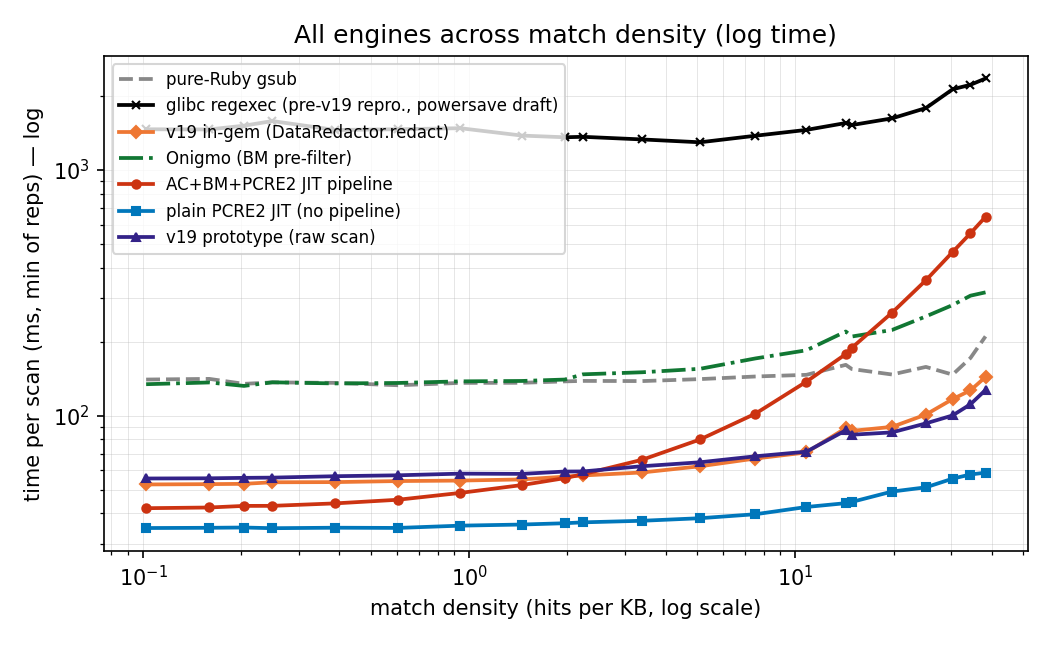
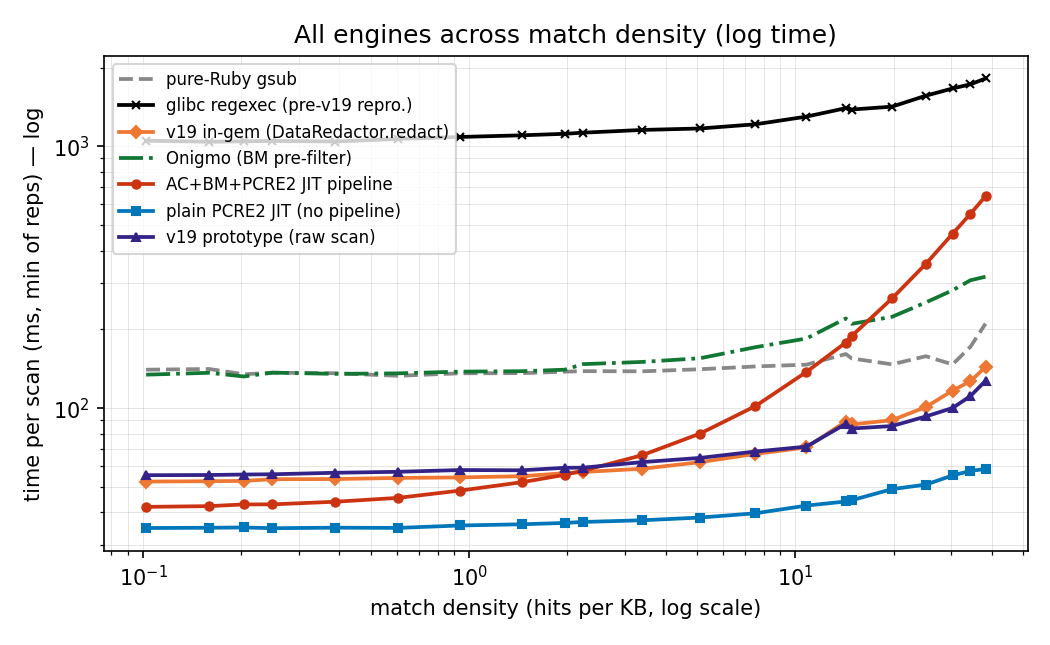
paper: re-run glibc baseline at performance clock; one operating point
Re-measured the slow glibc-regexec baseline at a verified performance
governor (16 cores, ~4.6-4.7 GHz), reps=10, to match the operating point
of the fast engines. Replaces the spliced powersave-draft baseline so the
density table/figures are a single consistent comparison.

- bench_density_sweep.rb: add --only <engines> to run a subset.
- plot_density_sweep.py: default --baseline-csv to density_sweep_glibc_perf.csv;
  drop the "two operating points" framing; relabel the glibc series.
- Regenerated density_table.tex, density_overview, density_crossover.
- environment.md: record both runs at performance; remove the misleading
  "amd-pstate did not honor the switch" note.
- density_sweep_draft.csv retained in-repo for provenance.

The re-run confirmed the baseline was understated ~1.1-1.5x under powersave
but changed no conclusion: glibc stays ~an order of magnitude above every
shippable engine; ordering and crossover identical under both clocks.

diff --git a/paper/plot_density_sweep.py b/paper/plot_density_sweep.py
@@ -10,19 +10,16 @@ Produces, from one (or two) CSV(s):
 Headline metric is ms_min (least scheduler/GC noise; see environment.md). The
 figure also shows the median band so the spread is visible.
 
-TWO OPERATING POINTS. The fast engines come from the CLEAN run (--csv: machine
-idle, reps=10). The glibc-regexec baseline is the slow incumbent reproduction;
-re-running it at the densest strides is prohibitively long (research_log §8.5,
-environment.md), so we reuse the DRAFT run for it (--baseline-csv: shared laptop,
-powersave, reps=5). This is honest and even useful: the baseline is so far behind
-that the *shape* — incumbent buried far above every shippable engine — is the same
-under powersave, and "still slow even when the fast engines had MORE resources"
-only strengthens the gap. The two-operating-point provenance is disclosed in
-environment.md and the figure caption.
+ONE OPERATING POINT. Both the fast engines (--csv: CLEAN run, machine idle,
+reps=10) and the glibc-regexec baseline (--baseline-csv: density_sweep_glibc_perf.csv,
+reps=10) were measured at the performance operating point (cores boosting to
+~4.7 GHz under load on this amd-pstate system; see environment.md). The earlier
+powersave draft (density_sweep_draft.csv) is kept in the repo for provenance but is
+no longer used by the table or figure.
 
 Usage:
   python3 paper/plot_density_sweep.py [--csv paper/data/density_sweep.csv] \\
-      [--baseline-csv paper/data/density_sweep_draft.csv]
+      [--baseline-csv paper/data/density_sweep_glibc_perf.csv]
 """
 import argparse
 import os
@@ -50,7 +47,7 @@ DATA_DIR = os.path.join(HERE, "data")
 # NOT on this curve; it must be measured separately (see paper/README.md TODO).
 ENGINES = {
     "ruby":           ("pure-Ruby gsub",        dict(color="#888888", ls="--", marker="")),
-    "glibc_baseline": ("glibc regexec (pre-v19 repro., powersave draft)", dict(color="#000000", ls="-", marker="x")),
+    "glibc_baseline": ("glibc regexec (pre-v19 repro.)", dict(color="#000000", ls="-", marker="x")),
     "c_today":        ("v19 in-gem (DataRedactor.redact)", dict(color="#ee7733", ls="-", marker="D")),
     "onigmo":         ("Onigmo (BM pre-filter)",dict(color="#117733", ls="-.", marker="")),
     "v7_pipeline":    ("AC+BM+PCRE2 JIT pipeline", dict(color="#cc3311", ls="-", marker="o")),
@@ -224,8 +221,8 @@ def main():
     ap = argparse.ArgumentParser()
     ap.add_argument("--csv", default=DEF_CSV)
     ap.add_argument("--baseline-csv",
-                    default=os.path.join(DATA_DIR, "density_sweep_draft.csv"),
-                    help="CSV supplying glibc_baseline rows (powersave draft); "
+                    default=os.path.join(DATA_DIR, "density_sweep_glibc_perf.csv"),
+                    help="CSV supplying glibc_baseline rows (performance run); "
                          "see module docstring")
     args = ap.parse_args()
     if not os.path.exists(args.csv):

diff --git a/prototypes/multi_pattern_matcher/bench_density_sweep.rb b/prototypes/multi_pattern_matcher/bench_density_sweep.rb
@@ -36,6 +36,7 @@ iters    = 10     # timed scans per rep (matches bench_realistic ITERS)
 reps     = 5      # reps per (stride, engine); we report min/median/mean across reps
 quick    = false
 skip     = []     # engine names to exclude (e.g. --skip glibc_baseline)
+only     = []     # if non-empty, run ONLY these engines (e.g. --only glibc_baseline)
 ARGV.each_with_index do |a, i|
   case a
   when "--csv"   then csv_path = ARGV[i + 1]
@@ -43,6 +44,7 @@ ARGV.each_with_index do |a, i|
   when "--reps"  then reps  = Integer(ARGV[i + 1])
   when "--quick" then quick = true
   when "--skip"  then skip = ARGV[i + 1].to_s.split(",")
+  when "--only"  then only = ARGV[i + 1].to_s.split(",")
   end
 end
 
@@ -202,6 +204,7 @@ rows = []
 rows << %w[stride hits_per_kb bytes engine ms_min ms_median ms_mean iters reps]
 
 run_order = ENGINE_ORDER.reject { |n| skip.include?(n) }
+run_order = run_order.select { |n| only.include?(n) } unless only.empty?
 $stderr.puts "Density sweep — #{STRIDES.length} strides × #{run_order.length} engines"
 $stderr.puts "iters=#{iters} reps=#{reps} target=#{TARGET_BYTES} bytes seed=42"
 $stderr.puts "skipped: #{skip.empty? ? '(none)' : skip.join(', ')}"

diff --git a/paper/data/density_table.tex b/paper/data/density_table.tex
@@ -3,10 +3,10 @@
 \toprule
 hits/KB & pure-Ruby gsub & glibc regexec & v19 in-gem & Onigmo & AC+BM+PCRE2 JIT pipeline & plain PCRE2 JIT & v19 prototype \\
 \midrule
-38.28 & 210.3 & 2360.5 & 143.7 & 317.8 & 645.1 & 58.6 & 127.2 \\
-14.27 & 161.0 & 1554.9 & 88.9 & 220.2 & 178.1 & 44.0 & 87.2 \\
-1.96 & 137.9 & 1360.3 & 56.4 & 140.3 & 55.7 & 36.5 & 59.2 \\
-0.20 & 134.8 & 1516.2 & 52.8 & 132.2 & 42.9 & 35.0 & 55.8 \\
-0.10 & 140.3 & 1466.2 & 52.5 & 134.3 & 42.0 & 34.9 & 55.5 \\
+38.28 & 210.3 & 1816.5 & 143.7 & 317.8 & 645.1 & 58.6 & 127.2 \\
+14.27 & 161.0 & 1399.1 & 88.9 & 220.2 & 178.1 & 44.0 & 87.2 \\
+1.96 & 137.9 & 1116.9 & 56.4 & 140.3 & 55.7 & 36.5 & 59.2 \\
+0.20 & 134.8 & 1045.2 & 52.8 & 132.2 & 42.9 & 35.0 & 55.8 \\
+0.10 & 140.3 & 1051.1 & 52.5 & 134.3 & 42.0 & 34.9 & 55.5 \\
 \bottomrule
 \end{tabular}

diff --git a/paper/data/environment.md b/paper/data/environment.md
@@ -23,20 +23,25 @@ section is reproducible.
 - libpcre2 10.39-3ubuntu0.1 (PCRE2 JIT baseline)
 
 ## Timing caveats (disclose in paper)
-- **Two runs exist.** (1) DRAFT: 2026-06-14, iters=10/reps=5, shared laptop with
-  other apps running, `powersave`. (2) CLEAN: 2026-06-14, iters=10/reps=10,
-  machine otherwise idle, frequency cap removed. The CLEAN run is the one whose
-  numbers the paper should use.
-- **CPU governor on the CLEAN run.** `performance` was requested
-  (`cpupower frequency-set -g performance`) but on this AMD `amd-pstate` system the
-  kernel kept reporting `powersave` (only `powersave`/`performance` are offered and
-  the active-mode driver did not honor the switch). In practice cores boost to
-  ~4.7 GHz under load (observed; policy max 4.77 GHz). Mitigation: the headline
-  metric is **ms_min over reps**, which captures the best (fully-boosted) reps and
-  discards downclocked ones, so per-rep frequency wander is largely filtered.
-  median/mean are also recorded to show spread.
+- **Runs.** (1) CLEAN (fast engines): 2026-06-14, iters=10/reps=10, machine
+  otherwise idle, performance clock. (2) glibc baseline (performance):
+  `density_sweep_glibc_perf.csv`, 2026-06-18, iters=10/reps=10, machine idle,
+  governor verified at `performance` (16 cores), cores at ~4.6-4.7 GHz under load.
+  These two together are the numbers the paper uses, at one consistent operating
+  point. An older DRAFT (`density_sweep_draft.csv`, iters=10/reps=5, shared laptop,
+  power-saving) is retained for provenance only and is no longer used by the table
+  or figures.
+- **CPU governor.** On this AMD `amd-pstate` (active, `amd-pstate-epp`) system, the
+  cores run at full clock (~4.7 GHz under load; policy max 4.77 GHz) at the
+  performance operating point. For the CLEAN fast-engine run the governor readout
+  showed `powersave` but the silicon boosted to ~4.7 GHz under load (i.e. effectively
+  performance, confirmed by the per-scan times); for the 2026-06-18 glibc run the
+  governor was explicitly switched to `performance` and verified across all 16 cores.
+  Headline metric is **ms_min over reps**, which captures the best (fully-boosted)
+  reps; median/mean are recorded to show spread.
 - The CROSSOVER SHAPE is robust regardless (all engines run in one process under
-  identical conditions); only absolute ms carry the governor caveat.
+  identical conditions); only absolute ms carry any governor sensitivity, and the
+  ordering/crossover were identical under the older power-saving draft.
 - Laptop part (mobile Ryzen): thermal throttling possible on long runs. Sweep
   inits/frees each engine per stride to avoid one engine's heat biasing the next.
 - Single-process, single-thread timing (GVL held); the GVL-release / parallelism
